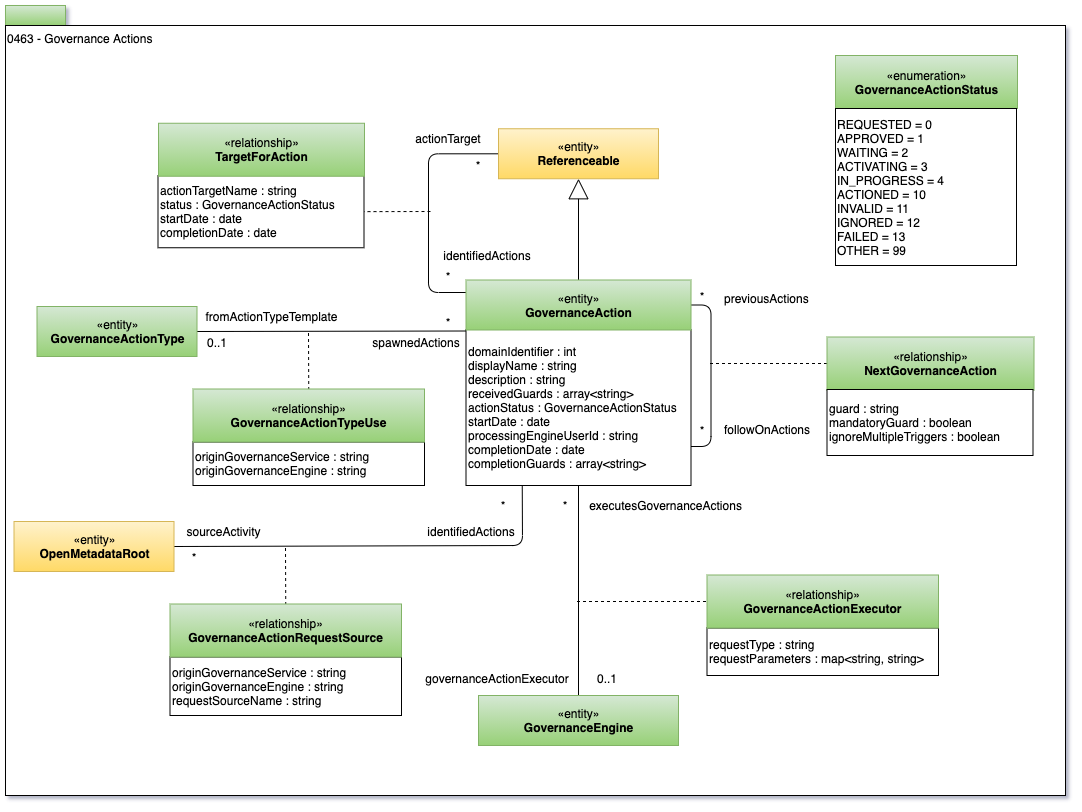
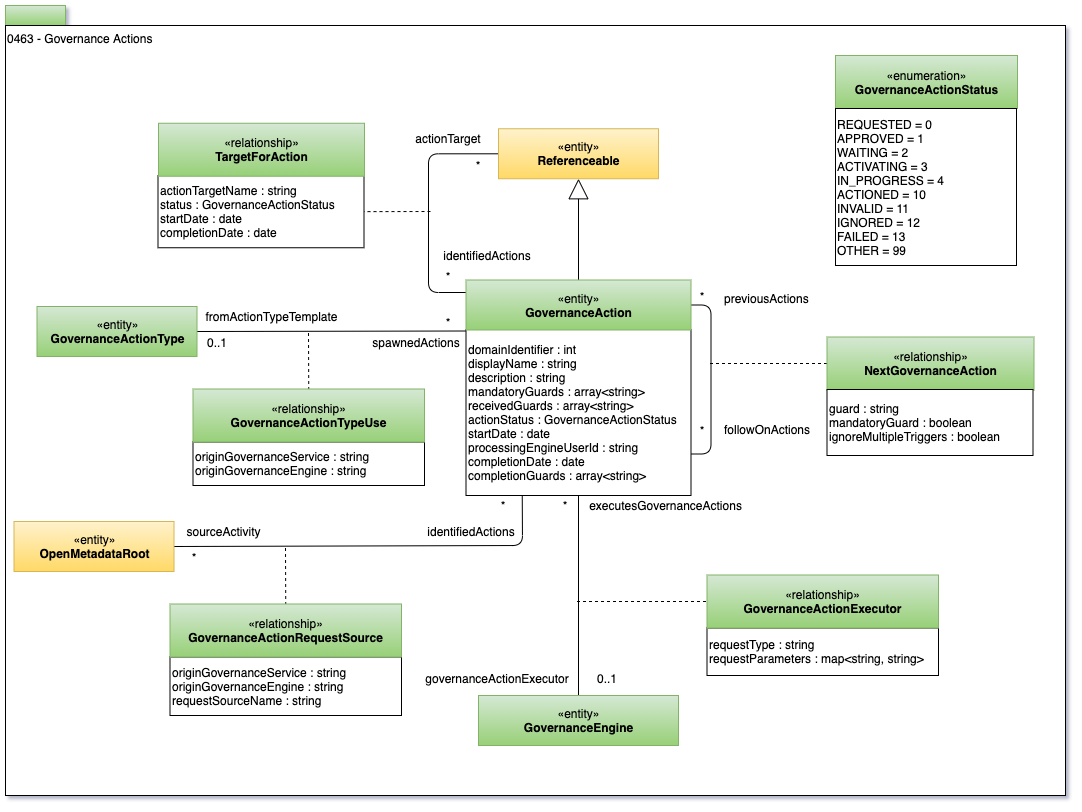
Extend governance action types

Changed region(s): [[0.427, 0.431, 0.6405, 0.6158]]

diff --git a/open-metadata-resources/open-metadata-archives/open-metadata-types/src/main/java/org/odpi/openmetadata/opentypes/OpenMetadataTypesArchive.java b/open-metadata-resources/open-metadata-archives/open-metadata-types/src/main/java/org/odpi/openmetadata/opentypes/OpenMetadataTypesArchive.java
@@ -155,7 +155,203 @@ public class OpenMetadataTypesArchive
         /*
          * Calls for new and changed types go here
          */
+        update0045ServersAndAssets();
+        update0462GovernanceActionFlow();
+        update0463GovernanceAction();
         update0512CalculatedValue();
+    }
+
+
+    /*
+     * -------------------------------------------------------------------------------------------------------
+     */
+
+    /**
+     * 0045 Replace AssetServerUse relationship with SeverAssetUse
+     */
+    private void update0045ServersAndAssets()
+    {
+        this.archiveBuilder.addTypeDefPatch(deprecateAssetServerUse());
+        this.archiveBuilder.addRelationshipDef(getServerAssetUseRelationship());
+    }
+
+    private TypeDefPatch deprecateAssetServerUse()
+    {
+        final String typeName = "AssetServerUse";
+
+        TypeDefPatch typeDefPatch = archiveBuilder.getPatchForType(typeName);
+
+        typeDefPatch.setUpdatedBy(originatorName);
+        typeDefPatch.setUpdateTime(creationDate);
+        typeDefPatch.setTypeDefStatus(TypeDefStatus.DEPRECATED_TYPEDEF);
+
+        return typeDefPatch;
+    }
+
+
+    private RelationshipDef getServerAssetUseRelationship()
+    {
+        final String guid            = "56315447-88a6-4235-ba91-fead86524ebf";
+        final String name            = "ServerAssetUse";
+        final String description     = "Defines that a server capability is using an asset.";
+        final String descriptionGUID = null;
+
+        final ClassificationPropagationRule classificationPropagationRule = ClassificationPropagationRule.NONE;
+
+        RelationshipDef relationshipDef = archiveHelper.getBasicRelationshipDef(guid,
+                                                                                name,
+                                                                                null,
+                                                                                description,
+                                                                                descriptionGUID,
+                                                                                classificationPropagationRule);
+
+        RelationshipEndDef relationshipEndDef;
+
+        /*
+         * Set up end 1.
+         */
+        final String                     end1EntityType               = "SoftwareServerCapability";
+        final String                     end1AttributeName            = "consumedBy";
+        final String                     end1AttributeDescription     = "Capability consuming this asset.";
+        final String                     end1AttributeDescriptionGUID = null;
+        final RelationshipEndCardinality end1Cardinality              = RelationshipEndCardinality.ANY_NUMBER;
+
+        relationshipEndDef = archiveHelper.getRelationshipEndDef(this.archiveBuilder.getEntityDef(end1EntityType),
+                                                                 end1AttributeName,
+                                                                 end1AttributeDescription,
+                                                                 end1AttributeDescriptionGUID,
+                                                                 end1Cardinality);
+        relationshipDef.setEndDef1(relationshipEndDef);
+
+
+        /*
+         * Set up end 2.
+         */
+        final String                     end2EntityType               = "Asset";
+        final String                     end2AttributeName            = "consumedAsset";
+        final String                     end2AttributeDescription     = "Asset that this software server capability is dependent on.";
+        final String                     end2AttributeDescriptionGUID = null;
+        final RelationshipEndCardinality end2Cardinality              = RelationshipEndCardinality.ANY_NUMBER;
+
+        relationshipEndDef = archiveHelper.getRelationshipEndDef(this.archiveBuilder.getEntityDef(end2EntityType),
+                                                                 end2AttributeName,
+                                                                 end2AttributeDescription,
+                                                                 end2AttributeDescriptionGUID,
+                                                                 end2Cardinality);
+        relationshipDef.setEndDef2(relationshipEndDef);
+
+        /*
+         * Build the attributes
+         */
+        List<TypeDefAttribute> properties = new ArrayList<>();
+        TypeDefAttribute       property;
+
+        final String attribute1Name            = "useType";
+        final String attribute1Description     = "Describes how the software server capability uses the asset.";
+        final String attribute1DescriptionGUID = null;
+        final String attribute2Name            = "description";
+        final String attribute2Description     = "Additional information on how the asset is used by the software server capability.";
+        final String attribute2DescriptionGUID = null;
+
+        property = archiveHelper.getEnumTypeDefAttribute("ServerAssetUseType",
+                                                         attribute1Name,
+                                                         attribute1Description,
+                                                         attribute1DescriptionGUID);
+        properties.add(property);
+        property = archiveHelper.getStringTypeDefAttribute(attribute2Name,
+                                                           attribute2Description,
+                                                           attribute2DescriptionGUID);
+        properties.add(property);
+
+        relationshipDef.setPropertiesDefinition(properties);
+
+        return relationshipDef;
+    }
+
+
+    /*
+     * -------------------------------------------------------------------------------------------------------
+     */
+
+    /**
+     * 0462 Update the GovernanceAction entity with the mandatoryGuards property
+     */
+    private void update0463GovernanceAction()
+    {
+        this.archiveBuilder.addTypeDefPatch(updateGovernanceActionEntity());
+    }
+
+    private TypeDefPatch updateGovernanceActionEntity()
+    {
+        final String typeName = "GovernanceAction";
+
+        TypeDefPatch typeDefPatch = archiveBuilder.getPatchForType(typeName);
+
+        typeDefPatch.setUpdatedBy(originatorName);
+        typeDefPatch.setUpdateTime(creationDate);
+
+        /*
+         * Build the attributes
+         */
+        List<TypeDefAttribute> properties = new ArrayList<>();
+        TypeDefAttribute       property;
+
+        final String attribute1Name            = "mandatoryGuards";
+        final String attribute1Description     = "The list of guards that must be received before this governance action can progress.";
+        final String attribute1DescriptionGUID = null;
+
+        property = archiveHelper.getArrayStringTypeDefAttribute(attribute1Name,
+                                                                attribute1Description,
+                                                                attribute1DescriptionGUID);
+        properties.add(property);
+
+        typeDefPatch.setPropertyDefinitions(properties);
+
+        return typeDefPatch;
+    }
+
+
+
+    /*
+     * -------------------------------------------------------------------------------------------------------
+     */
+
+    /**
+     * 0462 Update the GovernanceActionFlow relationship with guard property
+     */
+    private void update0462GovernanceActionFlow()
+    {
+        this.archiveBuilder.addTypeDefPatch(updateGovernanceActionFlowRelationship());
+    }
+
+    private TypeDefPatch updateGovernanceActionFlowRelationship()
+    {
+        final String typeName = "GovernanceActionFlow";
+
+        TypeDefPatch typeDefPatch = archiveBuilder.getPatchForType(typeName);
+
+        typeDefPatch.setUpdatedBy(originatorName);
+        typeDefPatch.setUpdateTime(creationDate);
+
+        /*
+         * Build the attributes
+         */
+        List<TypeDefAttribute> properties = new ArrayList<>();
+        TypeDefAttribute       property;
+
+        final String attribute1Name            = "guard";
+        final String attribute1Description     = "The guard passed to the first governance service to run in this process.";
+        final String attribute1DescriptionGUID = null;
+
+
+        property = archiveHelper.getStringTypeDefAttribute(attribute1Name,
+                                                           attribute1Description,
+                                                           attribute1DescriptionGUID);
+        properties.add(property);
+
+        typeDefPatch.setPropertyDefinitions(properties);
+
+        return typeDefPatch;
     }
 
 

diff --git a/open-metadata-resources/open-metadata-archives/open-metadata-types/README.md b/open-metadata-resources/open-metadata-archives/open-metadata-types/README.md
@@ -14,6 +14,7 @@ classes `OMRSArchiveBuilder` and `OMRSArchiveHelper` found in the `repository-se
 
 The types for each release are managed in separate classes. For example:
  * `OpenMetadataTypesArchive` - new candidate types for current release 
+ * `OpenMetadataTypesArchive2_6` - approved types added for [2.6 release](../../../release-notes/release-notes-2-6.md)
  * `OpenMetadataTypesArchive2_5` - approved types added for [2.5 release](../../../release-notes/release-notes-2-5.md)
  * `OpenMetadataTypesArchive2_4` - approved types added for [2.4 release](../../../release-notes/release-notes-2-4.md)
  * `OpenMetadataTypesArchive2_0` - approved types added for [2.0 release](../../../release-notes/release-notes-2-0.md)
